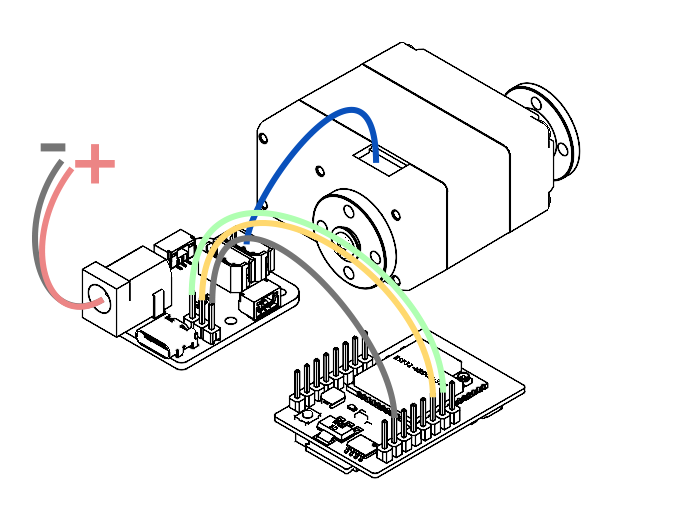
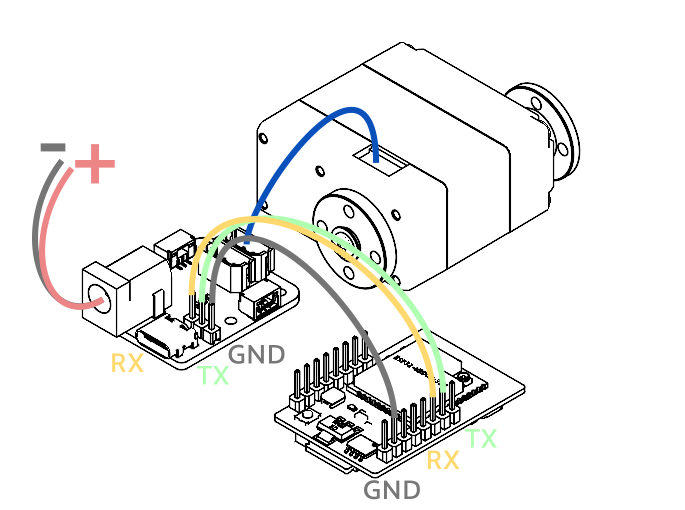
update

diff --git a/docs/en/getting-started.md b/docs/en/getting-started.md
@@ -63,9 +63,9 @@ Some low-power devices or a single device may allow basic operations such as rea
 
 ### 2.2 Control from an MCU UART
 
-If you are using ESP32, STM32, or another embedded controller, you can connect the MCU UART to TTL Adapter (A).
+If you are using ESP32, STM32, or another embedded controller, you can connect the MCU UART to [TTL Adapter (A)](bus-devices/ttl-adapter-a.md).
 
-TTL Adapter (A) converts the MCU's two-wire UART signal into the single-wire TTL bus signal used by Lygion TTL bus devices and compatible TTL bus servos.
+The TTL Adapter (A) converts the MCU’s **dual-wire UART** signals into a **single-wire TTL bus signal**, allowing control of Lygion TTL bus devices or compatible TTL bus servos.
 
 Typical connection:
 
@@ -73,8 +73,8 @@ Typical connection:
 
 | TTL Adapter (A) | MCU |
 | --- | --- |
-| TX | RX |
-| RX | TX |
+| RX | RX |
+| TX | TX |
 | GND | GND |
 
 The UART interface of TTL Adapter (A) uses **3.3V TTL logic level**.
@@ -83,6 +83,13 @@ The UART interface of TTL Adapter (A) uses **3.3V TTL logic level**.
     The UART interface of TTL Adapter (A) is 3.3V.
 
     If your MCU uses 5V UART logic, make sure its IO pins are compatible with 3.3V input. If necessary, add a level shifting circuit.
+
+!!! tip "MCU-to-TTL Adapter wiring"
+    - Connect MCU RX → TTL Adapter (A) RX
+    
+    - Connect MCU TX → TTL Adapter (A) TX
+    
+    - Connect MCU GND → TTL Adapter (A) GND
 
 ---
 
@@ -582,12 +589,12 @@ Serial1.begin(1000000);
 
 If only the baud rate is specified, the board uses its default UART pins. These default pins may not be connected to TTL Adapter (A), which can make the program appear to run normally while the device does not respond.
 
-!!! tip "Check RX/TX crossover"
-    MCU TX should connect to TTL Adapter (A) RX.
-
-    MCU RX should connect to TTL Adapter (A) TX.
-
-    GND must connect to GND.
+!!! tip "MCU-to-TTL Adapter wiring"
+    - Connect MCU RX → TTL Adapter (A) RX
+    
+    - Connect MCU TX → TTL Adapter (A) TX
+    
+    - Connect MCU GND → TTL Adapter (A) GND
 
 ---
 

diff --git a/docs/getting-started.md b/docs/getting-started.md
@@ -58,9 +58,9 @@ TTL Bus Device(s)
 
 ### 2.2 使用 MCU UART 控制
 
-如果您使用 ESP32、STM32 或其他嵌入式控制器，可以通过 MCU 的 UART 接口连接 TTL Adapter (A)。
+如果您使用 ESP32、STM32 或其他嵌入式控制器，可以通过 MCU 的 UART 接口连接 [TTL Adapter (A)](bus-devices/ttl-adapter-a.md)。
 
-TTL Adapter (A) 可以将 MCU 的双线 UART 信号转换为单线 TTL 总线信号，从而控制 LYgion TTL 总线设备或兼容的 TTL 总线舵机。
+TTL Adapter (A) 会将 MCU 的双线 UART 信号转换为单线 TTL 总线信号，从而控制 LYgion TTL 总线设备或兼容的 TTL 总线舵机。
 
 典型连接方式如下：
 
@@ -68,8 +68,8 @@ TTL Adapter (A) 可以将 MCU 的双线 UART 信号转换为单线 TTL 总线信
 
 | TTL Adapter (A) | MCU |
 | --- | --- |
-| TX | RX |
-| RX | TX |
+| RX | RX |
+| TX | TX |
 | GND |	GND |
 
 TTL Adapter (A) 的 UART 通信电平为 3.3V TTL。
@@ -78,6 +78,13 @@ TTL Adapter (A) 的 UART 通信电平为 3.3V TTL。
     TTL Adapter (A) 的 UART 接口为 3.3V 电平。
 
     如果您的 MCU 或控制器使用 5V UART 电平，请确认其 IO 是否兼容 3.3V 输入，必要时需要增加电平转换电路。
+
+!!! tip "MCU 与 TTL Adapter 接线方式"
+    MCU 的 RX 应连接到 TTL Adapter (A) 的 RX。
+    
+    MCU 的 TX 应连接到 TTL Adapter (A) 的 TX。
+    
+    GND 必须连接到 GND。
 
 ## 3. 供电方式
 
@@ -569,11 +576,11 @@ Serial1.begin(1000000);
 
 因为只写波特率时，开发板会使用默认 UART 引脚。默认引脚不一定连接到了 TTL Adapter (A)，可能导致程序运行正常但设备没有响应。
 
-!!! tip "确认 RX/TX 是否交叉连接"
-    MCU 的 TX 应连接到 TTL Adapter (A) 的 RX。
-
-    MCU 的 RX 应连接到 TTL Adapter (A) 的 TX。
-
+!!! tip "MCU 与 TTL Adapter 接线方式"
+    MCU 的 RX 应连接到 TTL Adapter (A) 的 RX。
+    
+    MCU 的 TX 应连接到 TTL Adapter (A) 的 TX。
+    
     GND 必须连接到 GND。
 
 ## 9. 常见问题排查